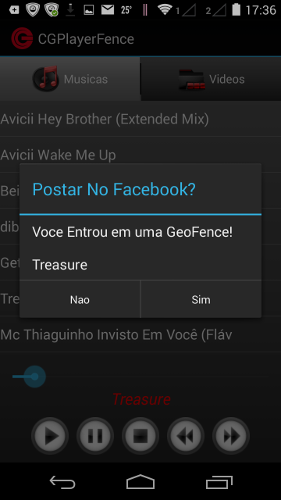
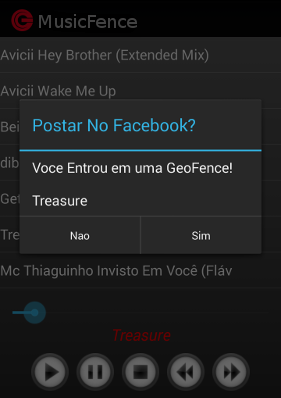
adicionado: novas infos.

diff --git a/README.md b/README.md
@@ -1,16 +1,16 @@
-CGPlayerFence
+MusicFence
 =============
 Player de Musica e Video com GeoFence
 
 # Introdução
-O _CGPlayerFence_ é um player de música e vídeo que permite ao usuário selecionar em uma determinada região do mapa a execução de uma música.
+O _MusicFence_ é um player de música e vídeo que permite ao usuário selecionar em uma determinada região do mapa a execução de uma música.
 
 ## Tela Inicial
-![CGPlayerFence](https://github.com/CharlesGarrocho/CGPlayerFence/raw/master/samples/inicial.png)
+![MusicFence](https://github.com/CharlesGarrocho/MusicFence/raw/master/samples/inicial.png)
 
 ## Tela de Adicionar GeoFence
-![CGPlayerFence](https://github.com/CharlesGarrocho/CGPlayerFence/raw/master/samples/mapa.png)
+![MusicFence](https://github.com/CharlesGarrocho/MusicFence/raw/master/samples/mapa.png)
 
 ## Tela de Compartilhar ao entrar em uma GeoFence
-![CGPlayerFence](https://github.com/CharlesGarrocho/CGPlayerFence/raw/master/samples/compartilhar.png)
+![MusicFence](https://github.com/CharlesGarrocho/MusicFence/raw/master/samples/compartilhar.png)
 
